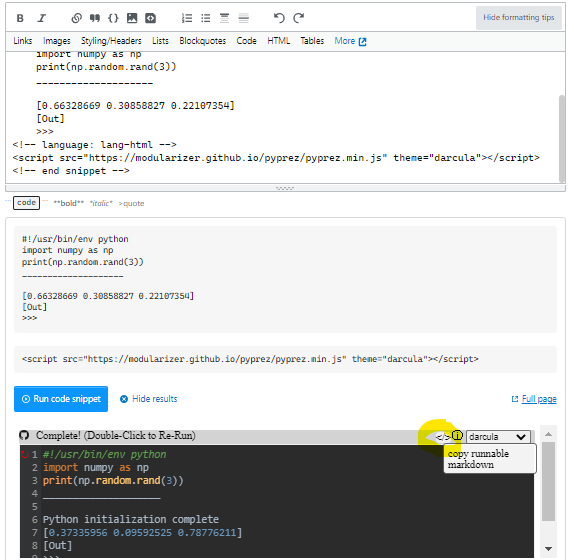
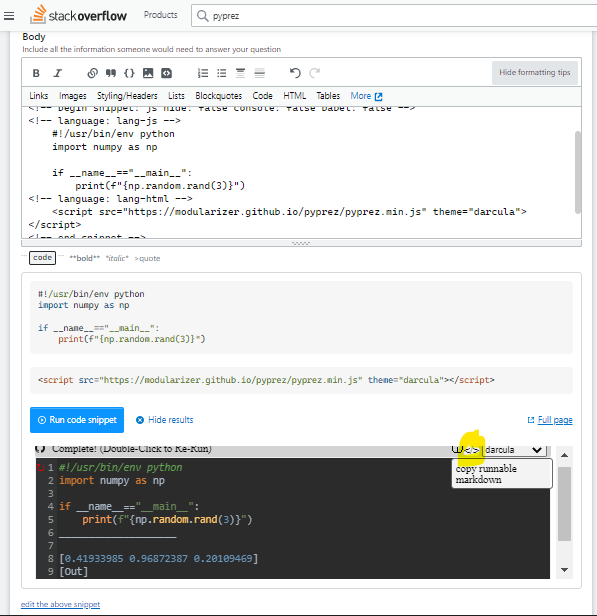
add docs

Changed region(s): [[0.0, 0.0, 1.0, 1.0]]

diff --git a/README.md b/README.md
@@ -40,9 +40,13 @@ Run **client-side python** in your browser to **prez**ent your code.
 
 <a href="https://stackoverflow.com/search?q=pyprez"><img src="https://stackoverflow.com/favicon.ico" height="15px"/></a>
 <a href="https://stackoverflow.com/search?q=pyprez">View Real Answers</a>
+
+<a href="https://stackoverflow.com/questions/ask#"><img src="https://stackoverflow.com/favicon.ico" height="15px"/></a>
+<a href="https://stackoverflow.com/questions/ask#">Create a Draft Question</a>
+
 ## Method 1
 Using any `<prprez-editor>` element (such as the one [here](https://modularizer.github.io/pyprez/stackconverter.html)) to modify your code, then click `</>` button on the top bar to convert your python 
-into markdown which can be pasted into your StackOverflow answer to create a runnable snippet.
+into markdown which can be pasted into your StackOverflow answer to create a **runnable and editable snippet**.
 
 **The Question/Answer Editor will look something like this**
 <img src="./sample_imgs/stack-overflow-sample.png"/>
